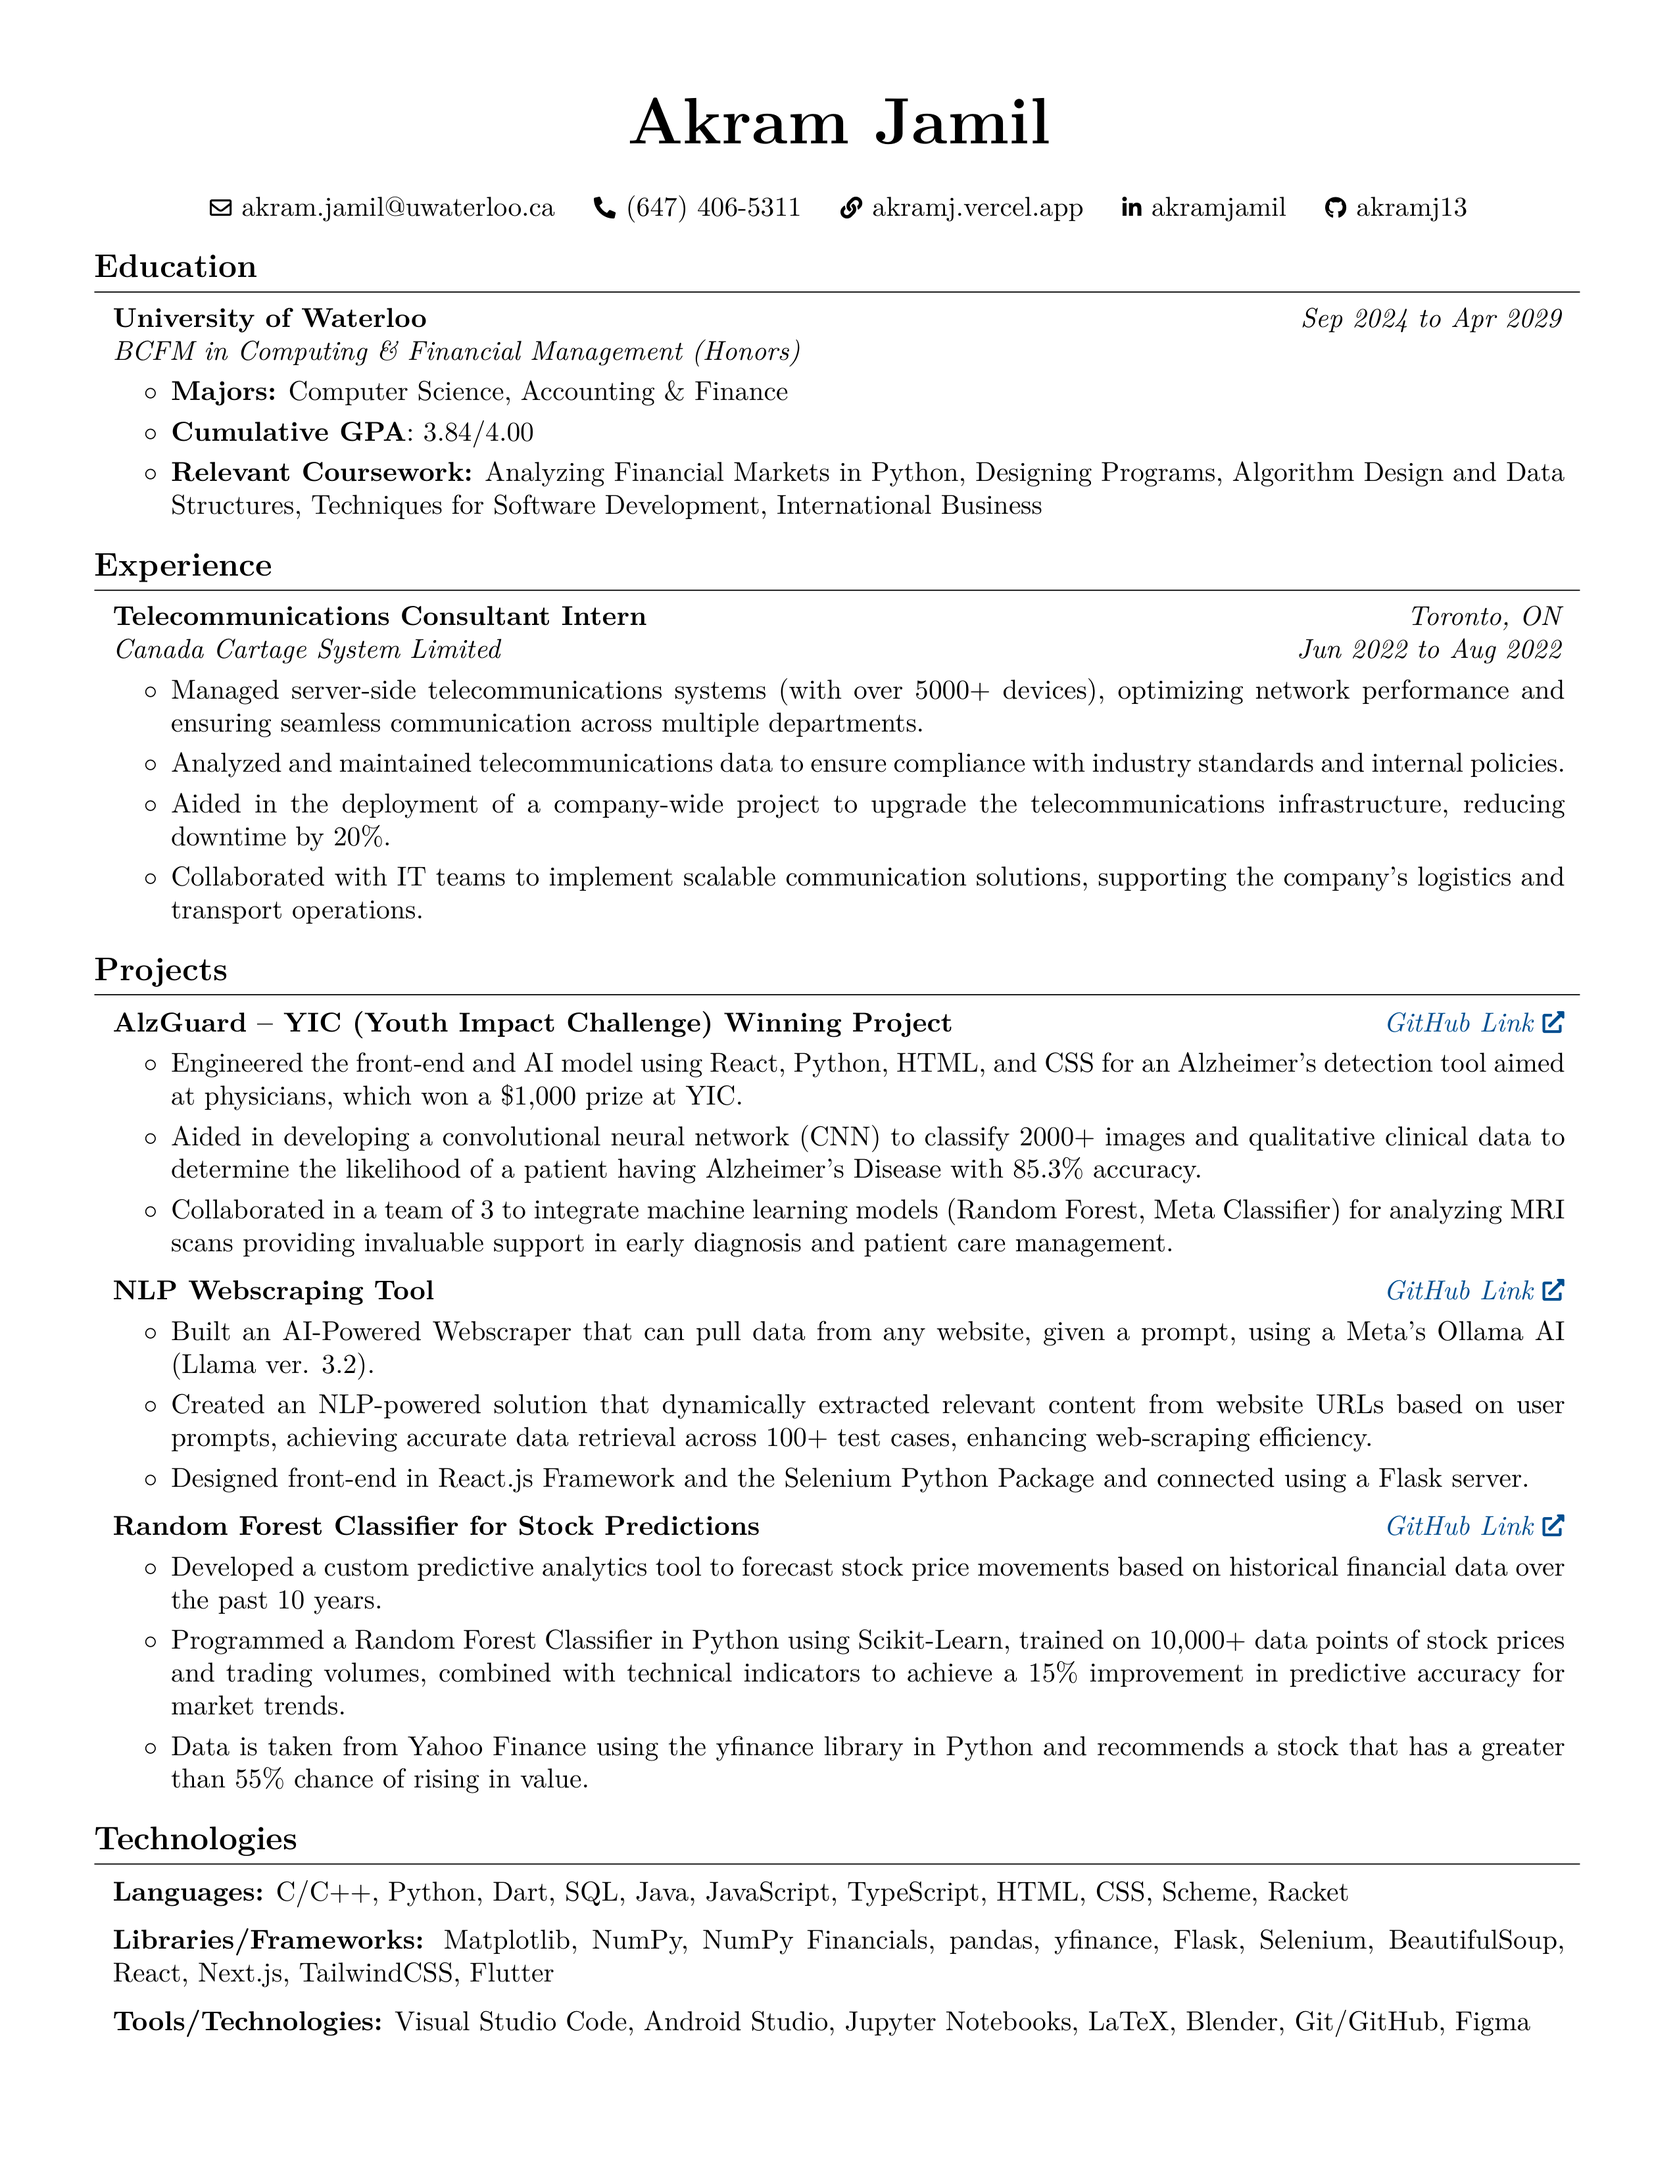
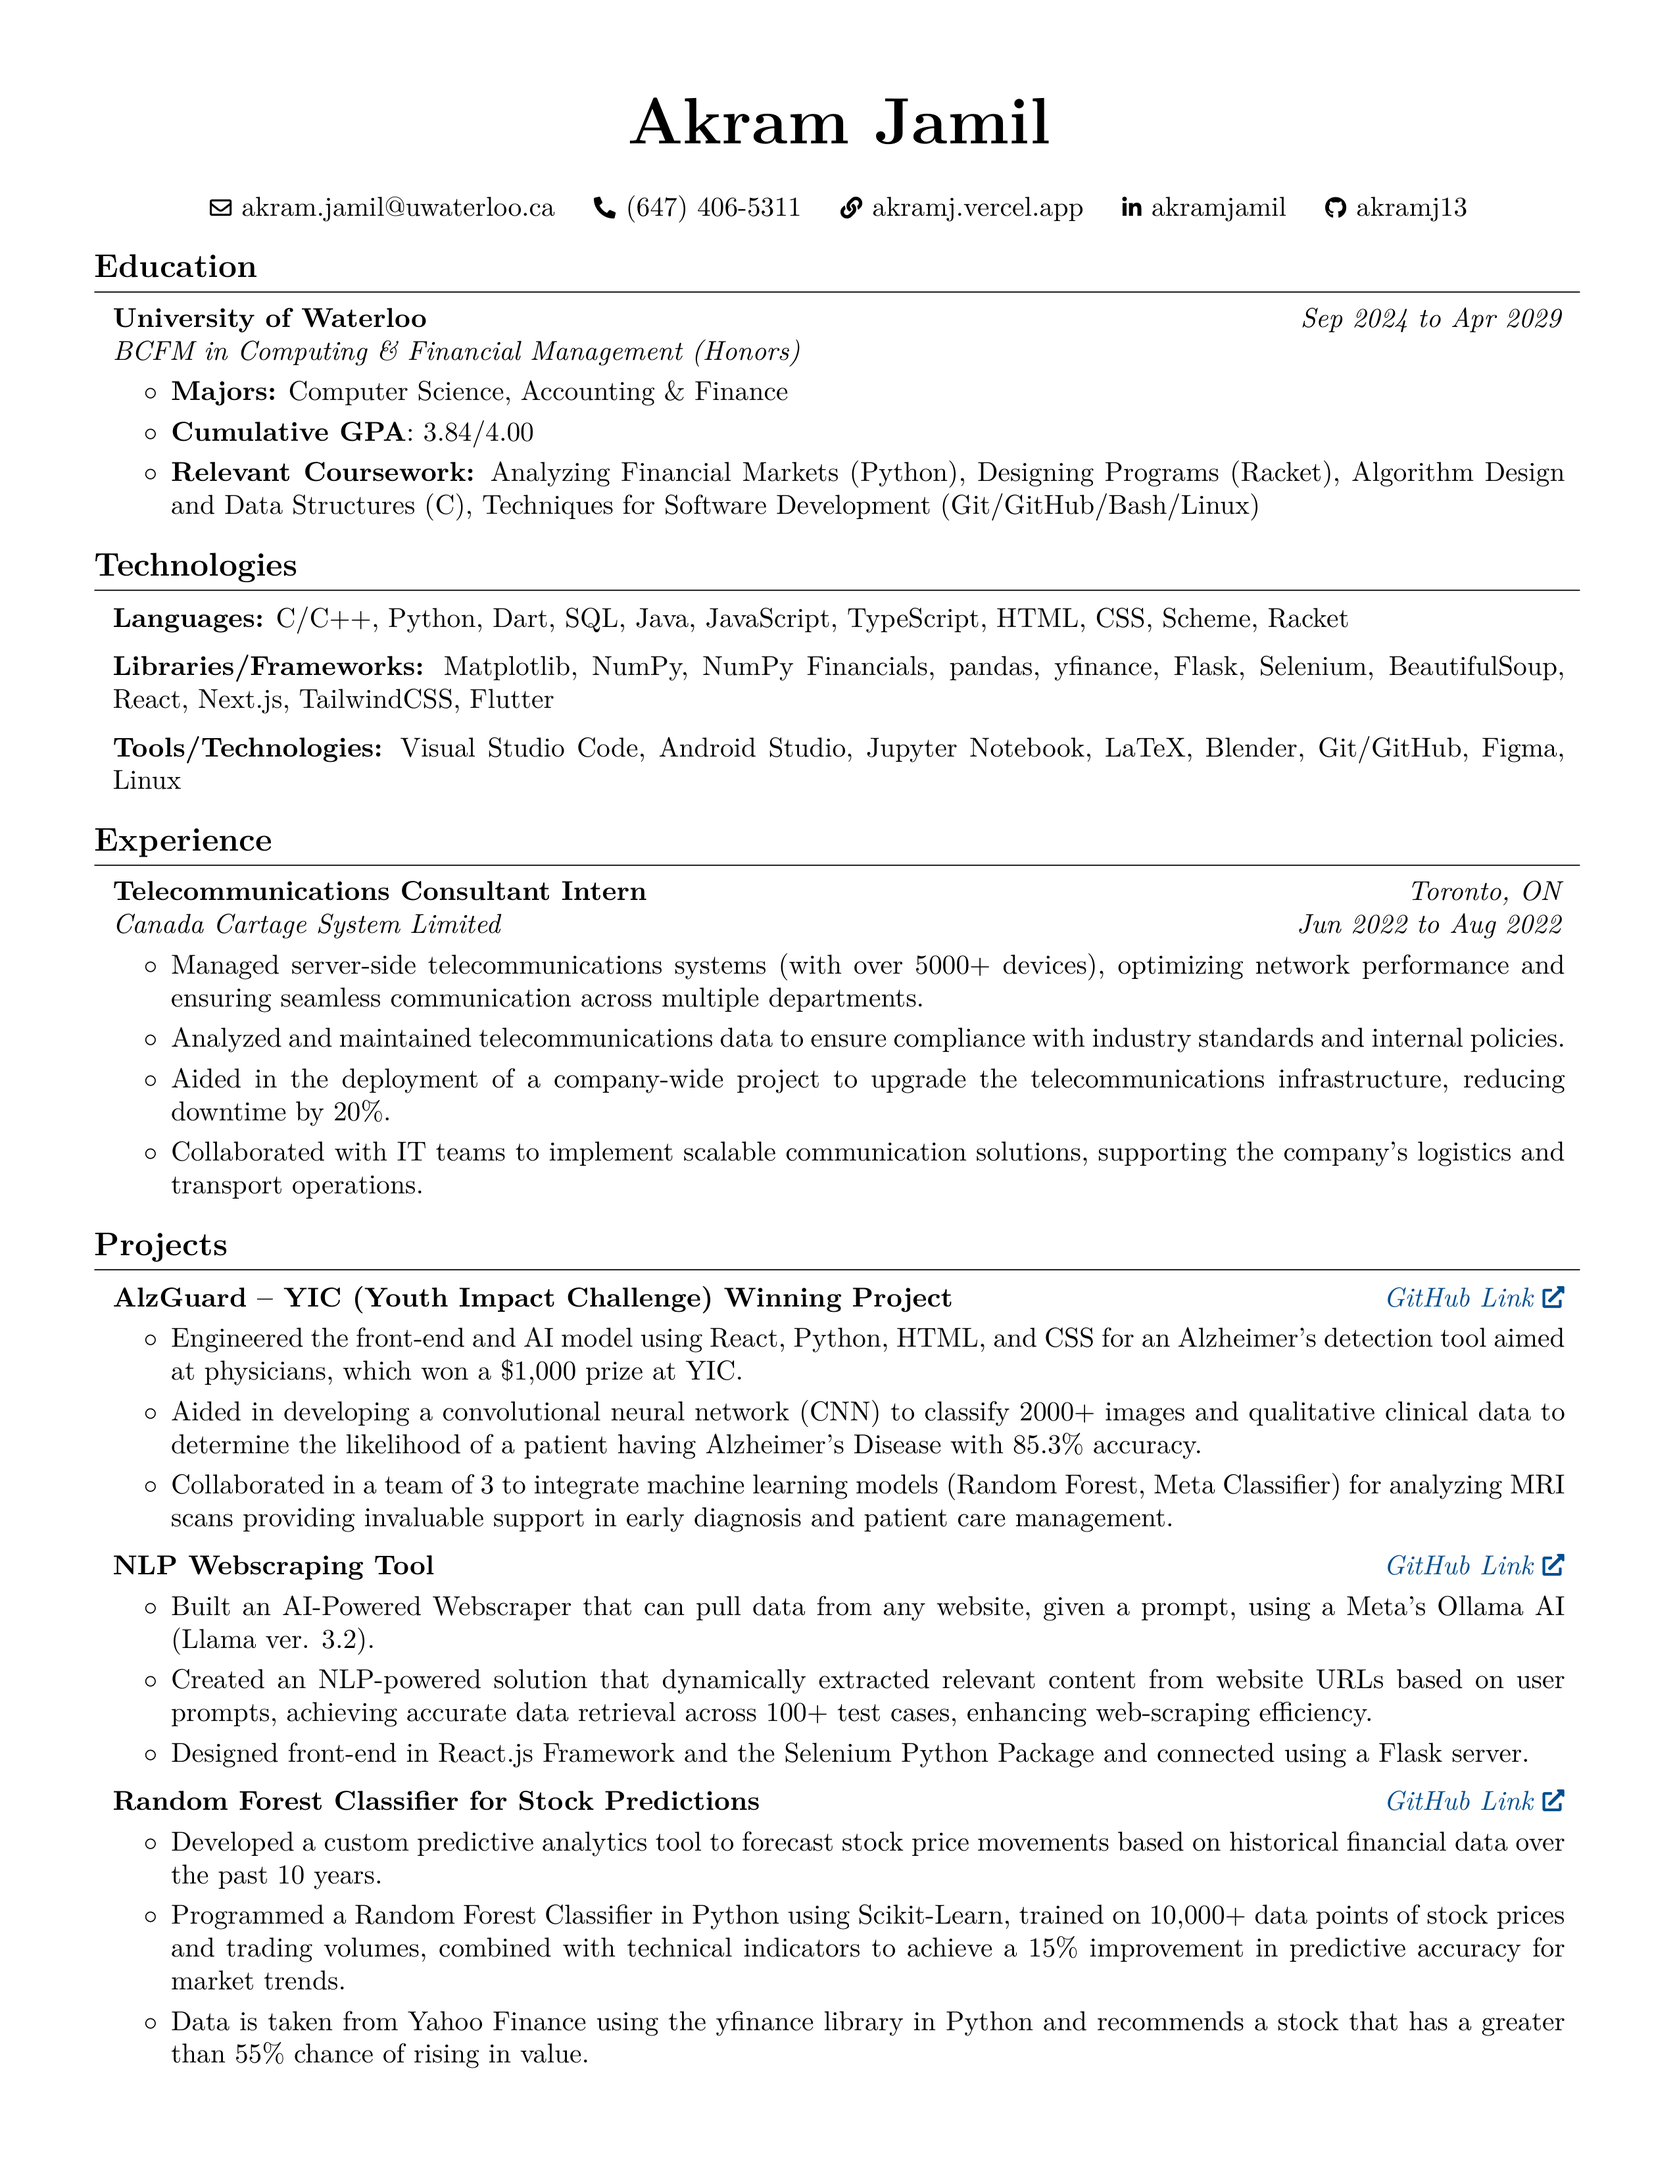
updates

Changed region(s): [[0.062, 0.2185, 0.9294, 0.9364]]

diff --git a/files/rendercv_output/Akram_Jamil_CV.html b/files/rendercv_output/Akram_Jamil_CV.html
@@ -45,7 +45,13 @@
         <li>Sep 2024 to Apr 2029</li>
         <li><strong>Majors:</strong> Computer Science, Accounting &amp; Finance</li>
         <li><strong>Cumulative GPA</strong>: 3.84/4.00</li>
-        <li><strong>Relevant Coursework:</strong> Analyzing Financial Markets in Python, Designing Programs, Algorithm Design and Data Structures, Techniques for Software Development, International Business</li>
+        <li><strong>Relevant Coursework:</strong> Analyzing Financial Markets (Python), Designing Programs (Racket), Algorithm Design and Data Structures (C), Techniques for Software Development (Git/GitHub/Bash/Linux)</li>
+        </ul>
+        <h1>Technologies</h1>
+        <ul>
+        <li>Languages: C/C++, Python, Dart, SQL, Java, JavaScript, TypeScript, HTML, CSS, Scheme, Racket</li>
+        <li>Libraries/Frameworks: Matplotlib, NumPy, NumPy Financials, pandas, yfinance, Flask, Selenium, BeautifulSoup, React, Next.js, TailwindCSS, Flutter</li>
+        <li>Tools/Technologies: Visual Studio Code, Android Studio, Jupyter Notebook, LaTeX, Blender, Git/GitHub, Figma, Linux</li>
         </ul>
         <h1>Experience</h1>
         <h2>Canada Cartage System Limited, Telecommunications Consultant Intern</h2>
@@ -78,12 +84,6 @@
         <li>Developed a custom predictive analytics tool to forecast stock price movements based on historical financial data over the past 10 years.</li>
         <li>Programmed a Random Forest Classifier in Python using Scikit-Learn, trained on 10,000+ data points of stock prices and trading volumes, combined with technical indicators to achieve a 15% improvement in predictive accuracy for market trends.</li>
         <li>Data is taken from Yahoo Finance using the yfinance library in Python and recommends a stock that has a greater than 55% chance of rising in value.</li>
-        </ul>
-        <h1>Technologies</h1>
-        <ul>
-        <li>Languages: C/C++, Python, Dart, SQL, Java, JavaScript, TypeScript, HTML, CSS, Scheme, Racket</li>
-        <li>Libraries/Frameworks: Matplotlib, NumPy, NumPy Financials, pandas, yfinance, Flask, Selenium, BeautifulSoup, React, Next.js, TailwindCSS, Flutter</li>
-        <li>Tools/Technologies: Visual Studio Code, Android Studio, Jupyter Notebooks, LaTeX, Blender, Git/GitHub, Figma</li>
         </ul>
     </article>
 </body>

diff --git a/files/rendercv_output/Akram_Jamil_CV.tex b/files/rendercv_output/Akram_Jamil_CV.tex
@@ -194,10 +194,33 @@
             \begin{highlights}
                 \item \textbf{Majors:} Computer Science, Accounting \& Finance
                 \item \textbf{Cumulative GPA}: 3.84/4.00
-                \item \textbf{Relevant Coursework:} Analyzing Financial Markets in Python, Designing Programs, Algorithm Design and Data Structures, Techniques for Software Development, International Business
+                \item \textbf{Relevant Coursework:} Analyzing Financial Markets (Python), Designing Programs (Racket), Algorithm Design and Data Structures (C), Techniques for Software Development (Git/GitHub/Bash/Linux)
             \end{highlights}
         \end{onecolentry}
 
+
+
+    
+    \section{Technologies}
+
+
+
+        
+        \begin{onecolentry}
+            \textbf{Languages:} C/C++, Python, Dart, SQL, Java, JavaScript, TypeScript, HTML, CSS, Scheme, Racket
+        \end{onecolentry}
+
+        \vspace{0.2 cm}
+
+        \begin{onecolentry}
+            \textbf{Libraries/Frameworks:} Matplotlib, NumPy, NumPy Financials, pandas, yfinance, Flask, Selenium, BeautifulSoup, React, Next.js, TailwindCSS, Flutter
+        \end{onecolentry}
+
+        \vspace{0.2 cm}
+
+        \begin{onecolentry}
+            \textbf{Tools/Technologies:} Visual Studio Code, Android Studio, Jupyter Notebook, LaTeX, Blender, Git/GitHub, Figma, Linux
+        \end{onecolentry}
 
 
     
@@ -287,29 +310,6 @@
             \end{highlights}
         \end{onecolentry}
 
-
-
-    
-    \section{Technologies}
-
-
-
-        
-        \begin{onecolentry}
-            \textbf{Languages:} C/C++, Python, Dart, SQL, Java, JavaScript, TypeScript, HTML, CSS, Scheme, Racket
-        \end{onecolentry}
-
-        \vspace{0.2 cm}
-
-        \begin{onecolentry}
-            \textbf{Libraries/Frameworks:} Matplotlib, NumPy, NumPy Financials, pandas, yfinance, Flask, Selenium, BeautifulSoup, React, Next.js, TailwindCSS, Flutter
-        \end{onecolentry}
-
-        \vspace{0.2 cm}
-
-        \begin{onecolentry}
-            \textbf{Tools/Technologies:} Visual Studio Code, Android Studio, Jupyter Notebooks, LaTeX, Blender, Git/GitHub, Figma
-        \end{onecolentry}
 
 
     

diff --git a/files/rendercv_output/Akram_Jamil_CV.md b/files/rendercv_output/Akram_Jamil_CV.md
@@ -14,8 +14,13 @@
 - Sep 2024 to Apr 2029
 - **Majors:** Computer Science, Accounting & Finance
 - **Cumulative GPA**: 3.84/4.00
-- **Relevant Coursework:** Analyzing Financial Markets in Python, Designing Programs, Algorithm Design and Data Structures, Techniques for Software Development, International Business
+- **Relevant Coursework:** Analyzing Financial Markets (Python), Designing Programs (Racket), Algorithm Design and Data Structures (C), Techniques for Software Development (Git/GitHub/Bash/Linux)
 
+# Technologies
+
+- Languages: C/C++, Python, Dart, SQL, Java, JavaScript, TypeScript, HTML, CSS, Scheme, Racket
+- Libraries/Frameworks: Matplotlib, NumPy, NumPy Financials, pandas, yfinance, Flask, Selenium, BeautifulSoup, React, Next.js, TailwindCSS, Flutter
+- Tools/Technologies: Visual Studio Code, Android Studio, Jupyter Notebook, LaTeX, Blender, Git/GitHub, Figma, Linux
 # Experience
 
 ## Canada Cartage System Limited, Telecommunications Consultant Intern
@@ -50,8 +55,3 @@
 - Programmed a Random Forest Classifier in Python using Scikit-Learn, trained on 10,000+ data points of stock prices and trading volumes, combined with technical indicators to achieve a 15% improvement in predictive accuracy for market trends.
 - Data is taken from Yahoo Finance using the yfinance library in Python and recommends a stock that has a greater than 55% chance of rising in value.
 
-# Technologies
-
-- Languages: C/C++, Python, Dart, SQL, Java, JavaScript, TypeScript, HTML, CSS, Scheme, Racket
-- Libraries/Frameworks: Matplotlib, NumPy, NumPy Financials, pandas, yfinance, Flask, Selenium, BeautifulSoup, React, Next.js, TailwindCSS, Flutter
-- Tools/Technologies: Visual Studio Code, Android Studio, Jupyter Notebooks, LaTeX, Blender, Git/GitHub, Figma
